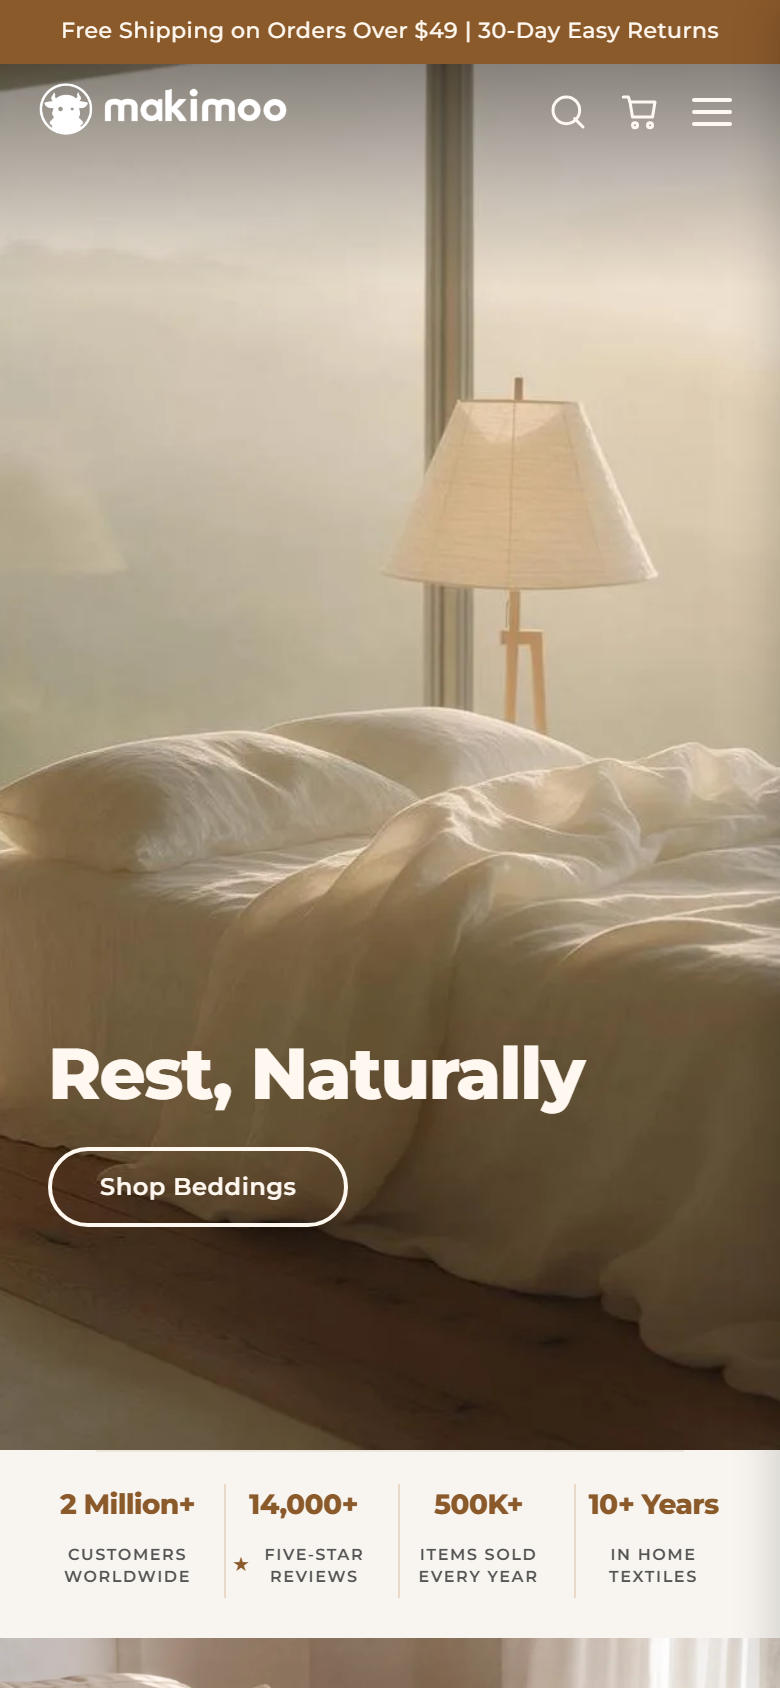
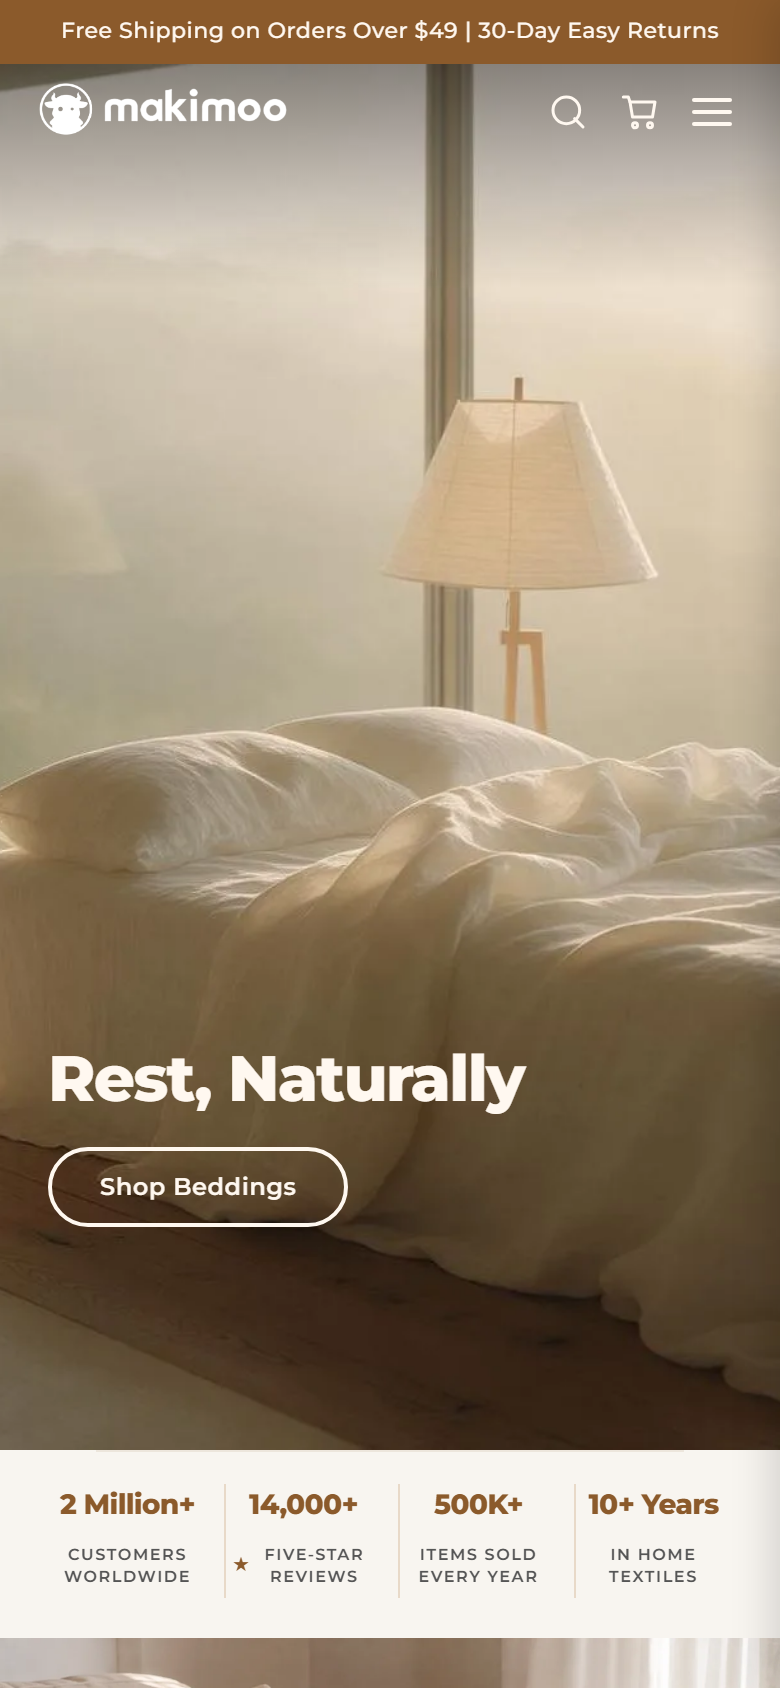
hero 移动端标题 36px → 32px（去掉冗余 sm:text-4xl，平板竖屏不跳变）

Changed region(s): [[0.0615, 0.6161, 0.7692, 0.6777]]

diff --git a/src/data/product-weights.ts b/src/data/product-weights.ts
@@ -1,6 +1,6 @@
 // Auto-generated by scripts/build-weights.js
 // DO NOT EDIT MANUALLY - 人工赋权改 src/data/weights-overrides.ts 后重跑本脚本
-// Generated at: 2026-10-28T13:18:52.401Z
+// Generated at: 2026-10-28T13:47:07.043Z
 
 export interface ProductWeight {
   /** 一级类目（同分破平用类目平均分） */
@@ -164,7 +164,7 @@ export const PRODUCT_WEIGHTS: Record<string, ProductWeight> = {
   "996768645117": {"type":"Mats","score":21.5,"perf":21.5,"boost":0},
   "745181807454": {"type":"Mats","score":23,"perf":23,"boost":0},
   "996768645117-c2": {"type":"Mats","score":23.7,"perf":23.7,"boost":0},
-  "996768645117-c3": {"type":"Mats","score":48.8,"perf":23.8,"boost":25},
+  "996768645117-c3": {"type":"Mats","score":48.7,"perf":23.7,"boost":25},
   "595229918569-c3": {"type":"Mats","score":23.1,"perf":23.1,"boost":0},
   "745181807454-c4": {"type":"Mats","score":23.1,"perf":23.1,"boost":0},
   "745181807454-c6": {"type":"Mats","score":23.7,"perf":23.7,"boost":0},
@@ -214,7 +214,7 @@ export const PRODUCT_WEIGHTS: Record<string, ProductWeight> = {
   "duvset-beige-full": {"type":"Bedding","score":52.8,"perf":25.8,"boost":27},
   "duvset-beige-twin": {"type":"Bedding","score":23.7,"perf":23.7,"boost":0},
   "duvset-white-king": {"type":"Bedding","score":25.8,"perf":25.8,"boost":0},
-  "duvset-white-full": {"type":"Bedding","score":53.8,"perf":23.8,"boost":30},
+  "duvset-white-full": {"type":"Bedding","score":53.7,"perf":23.7,"boost":30},
   "duvset-white-queen": {"type":"Bedding","score":25,"perf":25,"boost":0},
   "duvset-white-twin": {"type":"Bedding","score":53.8,"perf":23.8,"boost":30},
   "bedset4-lilac-twin": {"type":"Bedding","score":25.1,"perf":25.1,"boost":0},
@@ -295,7 +295,7 @@ export const PRODUCT_WEIGHTS: Record<string, ProductWeight> = {
   "743606980882-c89": {"type":"Decor","score":25.8,"perf":25.8,"boost":0},
   "663341114084-c2": {"type":"Decor","score":27.2,"perf":27.2,"boost":0},
   "663341114084-c3": {"type":"Decor","score":25.8,"perf":25.8,"boost":0},
-  "807393887857-c2": {"type":"Decor","score":27.3,"perf":27.3,"boost":0},
+  "807393887857-c2": {"type":"Decor","score":27.2,"perf":27.2,"boost":0},
   "807393887857-c3": {"type":"Decor","score":27.1,"perf":27.1,"boost":0},
   "807393887857-c4": {"type":"Decor","score":25.8,"perf":25.8,"boost":0},
   "807393887857-c5": {"type":"Decor","score":27.3,"perf":27.3,"boost":0},

diff --git a/src/components/v2/V2Hero.tsx b/src/components/v2/V2Hero.tsx
@@ -38,7 +38,7 @@ export default function V2Hero({ mobileSrc, desktopSrc, mobileBottom150 }: { mob
           不同分辨率下位置乱跳，窄屏甚至反向右移）；字号流式 clamp 随分辨率缩放；底部 justify-end + 上移 calc(70px+7%)；移动端统一上移 7%（2026-10-28 用户定） */}
       <div className={`relative z-10 h-full max-w-[1400px] mx-auto px-6 flex flex-col ${mobileBottom150 ? 'justify-end pb-[150px]' : 'justify-end pb-[16%] -translate-y-[7%]'} lg:max-w-none lg:px-[7vw] lg:-translate-y-[calc(70px+7%)] lg:justify-end lg:pb-[8vh]`}>
         <h1
-          className="text-[36px] sm:text-4xl lg:text-[50px] lg:leading-[1.05] font-extrabold tracking-tight leading-[1.05] text-cream max-w-3xl mb-[18px] lg:mb-7 animate-fade-in-up"
+          className="text-[32px] lg:text-[50px] lg:leading-[1.05] font-extrabold tracking-tight leading-[1.05] text-cream max-w-3xl mb-[18px] lg:mb-7 animate-fade-in-up"
         >
           Rest, Naturally
         </h1>

diff --git a/src/data/shopify-map.ts b/src/data/shopify-map.ts
@@ -1,6 +1,6 @@
 // Auto-generated by scripts/build-shopify-map.js
 // DO NOT EDIT MANUALLY - Run 'node scripts/build-shopify-map.js' to update
-// Generated at: 2026-10-28T13:18:51.720Z
+// Generated at: 2026-10-28T13:47:06.357Z
 
 export interface ShopifyProductEntry {
   variantId: string;
